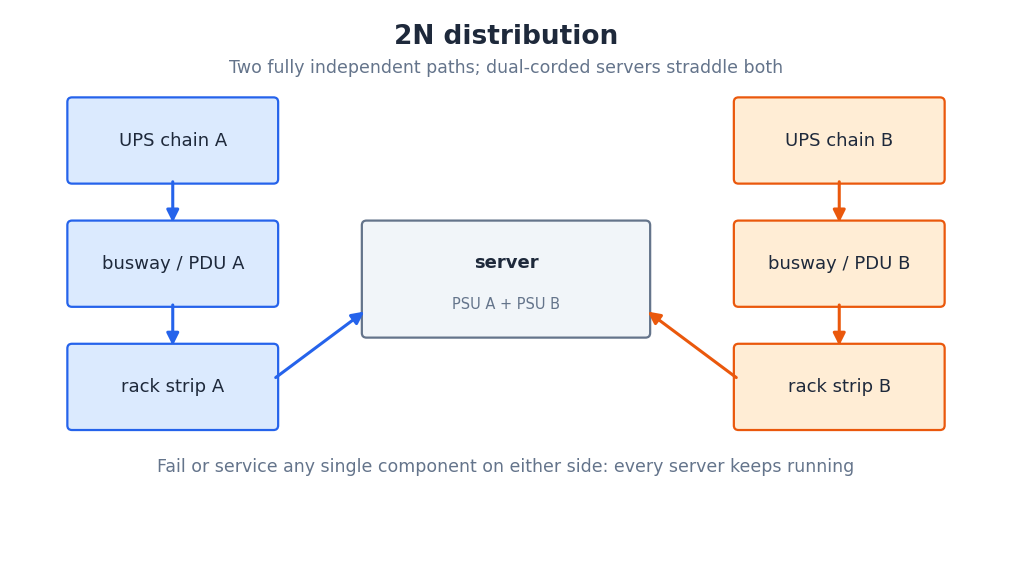
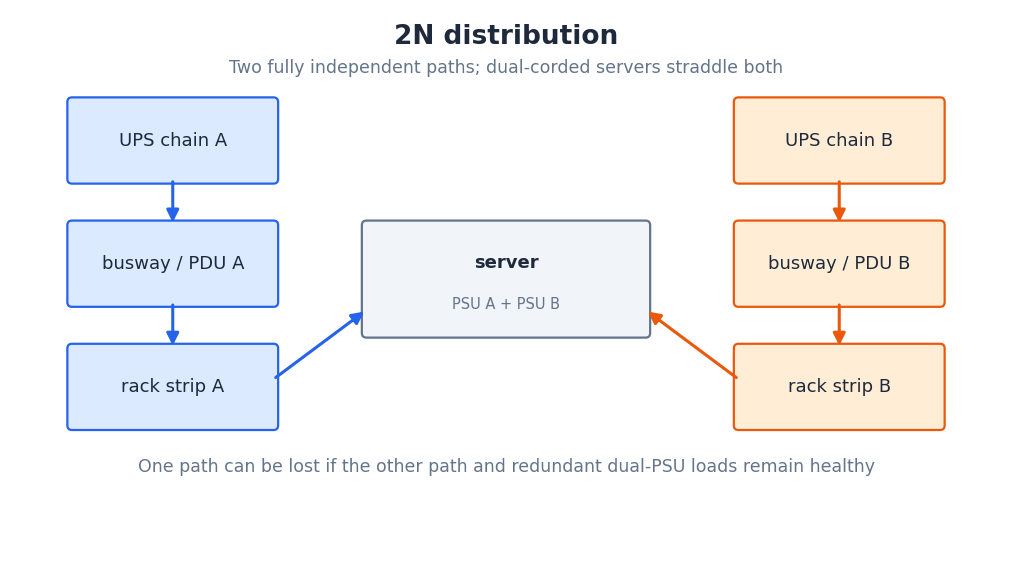
Qualify UPS bypass and independent 2N path assumptions

Changed region(s): [[0.1227, 0.7997, 0.8586, 0.8293]]

diff --git a/atomic-lessons/themes/energy/data-center-anatomy/ups-and-batteries/cards/02_inside-a-double-conversion-ups.md b/atomic-lessons/themes/energy/data-center-anatomy/ups-and-batteries/cards/02_inside-a-double-conversion-ups.md
@@ -12,6 +12,6 @@ archived: false
 ---
 
 
-The standard data center UPS uses double conversion, and SemiAnalysis lists its four parts. A rectifier converts incoming AC to DC. A battery bank hangs on that DC bus, always charged, always ready. An inverter, built on IGBT power semiconductors, converts DC back to clean AC for the load. And a static bypass switch can route power around the whole system if the UPS itself fails or needs service.
+The standard data center UPS uses double conversion, and SemiAnalysis lists its four parts. A rectifier converts incoming AC to DC. A battery bank is connected to that DC bus and kept charged during normal operation. An inverter, built on IGBT power semiconductors, converts DC back to clean AC for the load. And a static bypass switch can route power around the whole system if the UPS itself fails or needs service.
 
-The beauty of the design is that the load never sees the input: power is always being rebuilt from the DC bus, so sags, surges, frequency drift and noise from the grid are reduced within the UPS operating specification. When the grid fails, nothing switches: the battery simply starts discharging into a bus it was already feeding. In online double-conversion operation, the inverter continues supplying the load with no battery-transfer interruption; bypass and eco-mode transitions have different timing specifications. That is the trick at the heart of every serious facility: continuity achieved not by reacting fast, but by never having to react at all.
+In normal online double-conversion operation, the inverter supplies the load from the DC bus rather than passing the input directly through, so sags, surges, frequency drift and noise from the grid are reduced within the UPS operating specification. During input loss, stored battery energy sustains the DC bus. In online double-conversion operation, the inverter continues supplying the load with no battery-transfer interruption; bypass and eco-mode transitions have different timing specifications. Bypass is the important exception: when the load is transferred to a bypass source, it is no longer supplied through the same conversion path, and its protection depends on that source and the transfer design.

diff --git a/atomic-lessons/themes/energy/data-center-anatomy/the-rack/cards/06_a-side-and-b-side.md b/atomic-lessons/themes/energy/data-center-anatomy/the-rack/cards/06_a-side-and-b-side.md
@@ -6,6 +6,6 @@ archived: false
 ---
 
 
-Look behind a well-built rack and you will see two of everything: two power strips, two feeds, two paths back to two independent UPS systems. This is one common implementation of dual-path distribution; A and B labels alone do not prove complete independence. In a fully independent 2N design, A side and B side are separate power distribution systems, and every piece of IT equipment with dual power supplies straddles them. Either side alone carries the whole load.
+Look behind a well-built rack and you will see two of everything: two power strips, two feeds, two paths back to two independent UPS systems. This is one common implementation of dual-path distribution; A and B labels alone do not prove complete independence. In a fully independent 2N design, A side and B side are separate power distribution systems, and every piece of IT equipment with dual power supplies straddles them. In the depicted 2N design, either healthy side is sized to carry the whole load.
 
-The discipline extends to behavior: network cables, cooling capacity and even maintenance schedules respect the A/B split, because the design only works if no single event can kill both sides. A technician can shut down the entire A side for maintenance while the data hall hums on B. That property, called concurrent maintainability, is what Tier III facilities are required to have, and it is tested in real life every time someone works on electrical equipment under controlled isolation procedures.
+The discipline extends to behavior: network cables, cooling capacity and even maintenance schedules respect the A/B split, because the design only works if no single event can kill both sides. With appropriate capacity, healthy loads and controlled isolation, a technician can take A out for maintenance while B supports the IT load. That property, called concurrent maintainability, is what Tier III facilities are required to have, and it is tested in real life every time someone works on electrical equipment under controlled isolation procedures.

diff --git a/atomic-lessons/themes/energy/data-center-anatomy/power-distribution-to-the-rack/cards/05_redundancy-from-end-to-end.md b/atomic-lessons/themes/energy/data-center-anatomy/power-distribution-to-the-rack/cards/05_redundancy-from-end-to-end.md
@@ -13,4 +13,4 @@ archived: false
 
 We can now see the full redundancy weave. Two UPS systems feed two distribution chains: two busways or PDU sets, two rack strips, two power supplies per server. The article illustrates dual downstream components such as PDUs. Full-path resilience depends on isolation, capacity and failure containment throughout the design; a Tier III label does not mandate a universal 2N recipe.
 
-The test of the design is conceptual: pick any single component, cable, breaker or busway in either chain, fail it, and every server keeps running. Then extend the thought to maintenance: a technician can de-energize the entire A side, work on it safely, and hand it back, with the B side carrying everything. That property is what 'concurrently maintainable' purchases, and it is why the data hall wears its A and B labels so visibly: the redundancy only works if every human in the room respects which side is which.
+For the depicted independent paths and healthy redundant dual-PSU loads, loss of one electrical path should not interrupt IT. That does not promise immunity to every fault: common-mode failures, miswiring, overloads, failure of both supplies or the server itself can still interrupt service. Then extend the thought to maintenance: a technician can de-energize the entire A side, work on it safely, and hand it back, with the B side carrying everything. That property is what 'concurrently maintainable' purchases, and it is why the data hall wears its A and B labels so visibly: the redundancy only works if every human in the room respects which side is which.

diff --git a/atomic-lessons/themes/energy/data-center-anatomy/anatomy-of-a-server/cards/04_power-supplies-the-last-conversion.md b/atomic-lessons/themes/energy/data-center-anatomy/anatomy-of-a-server/cards/04_power-supplies-the-last-conversion.md
@@ -13,4 +13,4 @@ archived: false
 
 The server's power supply unit (PSU) does the final act of the electrical chain: it takes the rack's AC feed and converts it to the low-voltage DC the components use, typically 12 V for the motherboard. Near each chip, voltage regulator modules (VRMs) step that down again to around 1 V at currents that can exceed a thousand amps for a large GPU. Modern PSUs are remarkably good at this, with the best rated 80 Plus Titanium, wasting only a few percent as heat.
 
-Many enterprise servers carry redundant PSUs connected to separate power feeds, called A side and B side. Either supply alone can run the machine. This is the last link of the 2N redundancy pattern: if a UPS, a busway or a whole distribution path fails anywhere upstream, the server never notices, because the other side keeps feeding it. When you see two cords per server in a data hall photo, you are looking at the visible end of the facility's entire redundancy philosophy.
+Many enterprise servers carry redundant PSUs connected to separate power feeds, called A side and B side. In a redundant configuration, the remaining healthy supply must be rated to carry the required machine load. This is the last link of the 2N redundancy pattern: if a UPS, a busway or a whole distribution path fails anywhere upstream, a healthy redundant dual-PSU server can continue from the other path, provided that path has sufficient capacity and the failure is contained. When you see two cords per server in a data hall photo, you are looking at the visible end of the facility's entire redundancy philosophy.

diff --git a/atomic-lessons/themes/energy/data-center-anatomy/ups-and-batteries/cards/01_the-gap-nobody-can-see.md b/atomic-lessons/themes/energy/data-center-anatomy/ups-and-batteries/cards/01_the-gap-nobody-can-see.md
@@ -14,4 +14,4 @@ archived: false
 
 Grid power fails more often than you think: lightning, excavation accidents, storms and switching operations cause sags and outages on every network. Servers have only limited power-supply hold-up time; a long-enough interruption can reset machines and lose in-flight work. Worse, the backup generators that would take over need roughly a minute to start and reach full output. Between the grid's failure and the generator's arrival lies a deadly gap.
 
-The uninterruptible power supply (UPS) exists to fill it. Sitting between the utility feed and the IT load, the UPS carries its protected load from stored energy, seamlessly, for the minutes the generators need. SemiAnalysis puts typical battery autonomy at 5 to 10 minutes: not enough to survive a long outage, but far more than enough to hide the generator start. The UPS is not an alternative source of energy; it is a bridge, and its only job is that nothing across it ever notices the crossing.
+The uninterruptible power supply (UPS) exists to fill it. Sitting between the utility feed and the IT load, the UPS carries its protected load from stored energy, seamlessly, for the minutes the generators need. SemiAnalysis puts typical battery autonomy at 5 to 10 minutes: not enough to survive a long outage, but far more than enough to hide the generator start. The UPS is not an alternative source of energy; it is a bridge, and its role is to maintain the protected load while another source becomes available, within its capacity, autonomy and operating limits.

diff --git a/atomic-lessons/themes/energy/data-center-anatomy/ups-and-batteries/cards/08_3-key-learnings.md b/atomic-lessons/themes/energy/data-center-anatomy/ups-and-batteries/cards/08_3-key-learnings.md
@@ -6,8 +6,8 @@ archived: false
 ---
 
 
-**1. The UPS bridges the deadly gap.** Generators need about a minute; batteries carry the load for 5 to 10 minutes, and double conversion means the load never even sees a switch.
+**1. The UPS bridges the startup gap.** The article uses roughly a minute for generator start and 5-10 minutes of battery autonomy. In normal online double conversion, battery takeover does not interrupt the inverter output; bypass and eco-mode transfers are different cases.
 
-**2. Rectifier, battery, inverter, bypass:** AC is rebuilt to DC and back, which conditions incoming power within its specified limits but costs 3-5% in losses, pushing modern systems toward >99% eco modes.
+**2. Rectifier, battery, inverter, bypass:** normal double conversion rebuilds AC from the DC bus. Bypass routes around that conversion path; its source quality and transfer behavior matter. Efficiency and losses depend on operating mode and load.
 
 **3. Batteries are moving from lead-acid to lithium**, trading space, life and maintenance for strict fire-code engineering, while modular cores let capacity grow with the load.

diff --git a/atomic-lessons/themes/energy/data-center-anatomy/power-distribution-to-the-rack/cards/08_3-key-learnings.md b/atomic-lessons/themes/energy/data-center-anatomy/power-distribution-to-the-rack/cards/08_3-key-learnings.md
@@ -10,4 +10,4 @@ archived: false
 
 **2. Distribution is a protected river delta**: PDUs and busways break megawatts into metered, breakered circuits, with tap-offs and whips delivering the final meters to each rack.
 
-**3. Redundancy is end-to-end, not component-deep**: 2N chains from UPS to power strip make any single failure or maintenance window invisible, and hyperscalers compress the chain with rack-level DC.
+**3. Redundancy is end-to-end, not component-deep**: independent 2N chains and healthy redundant loads can tolerate losing one path, within their capacity and fault-containment limits, and hyperscalers compress the chain with rack-level DC.
